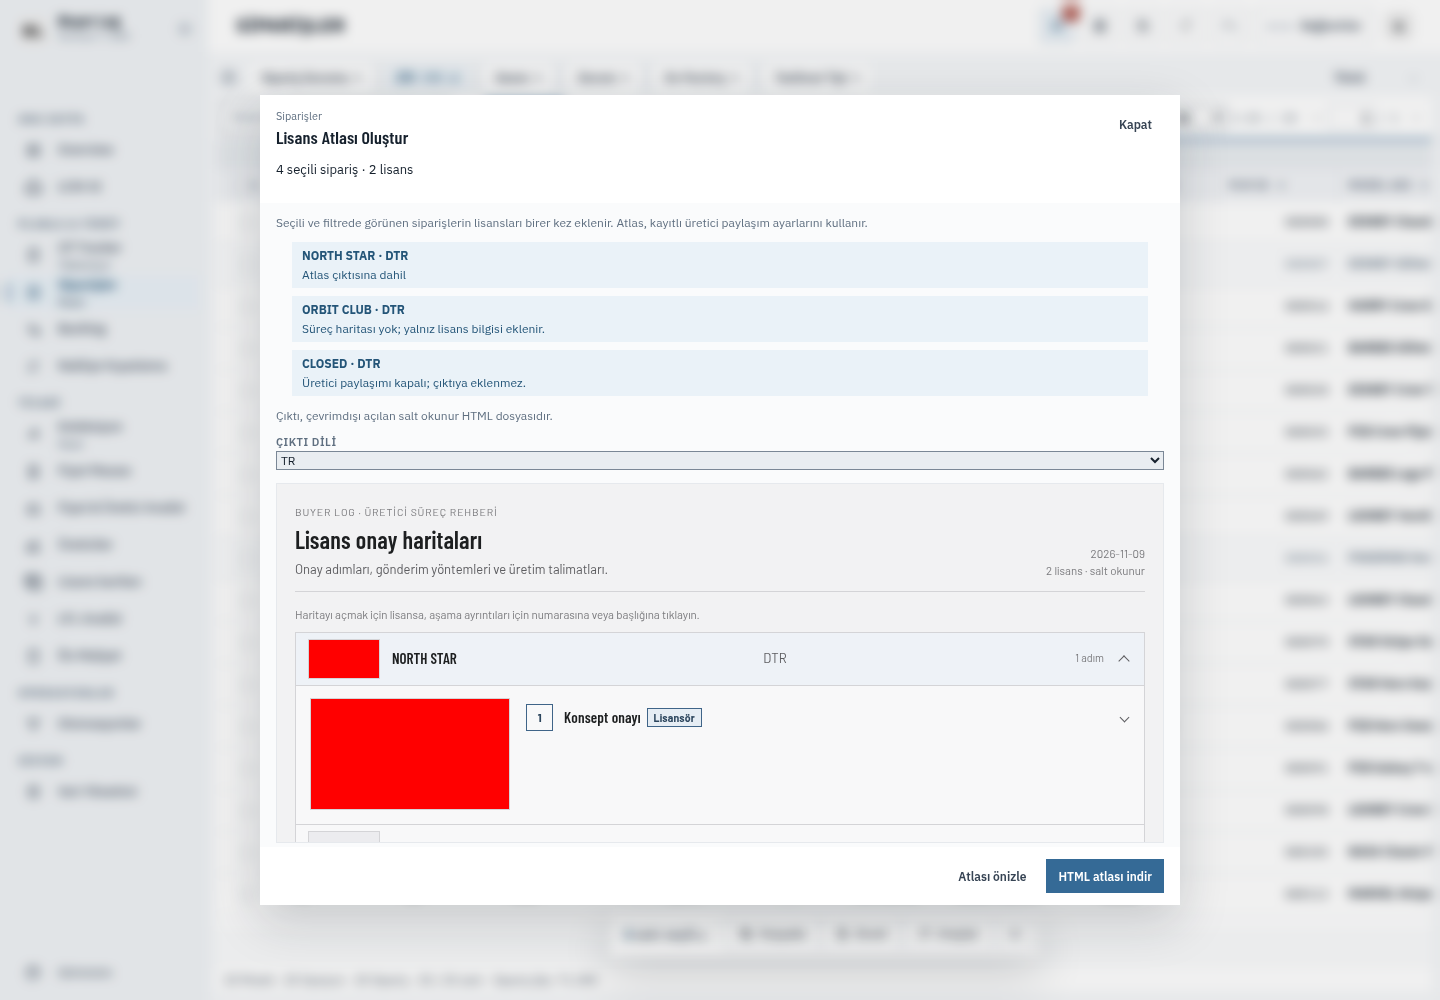
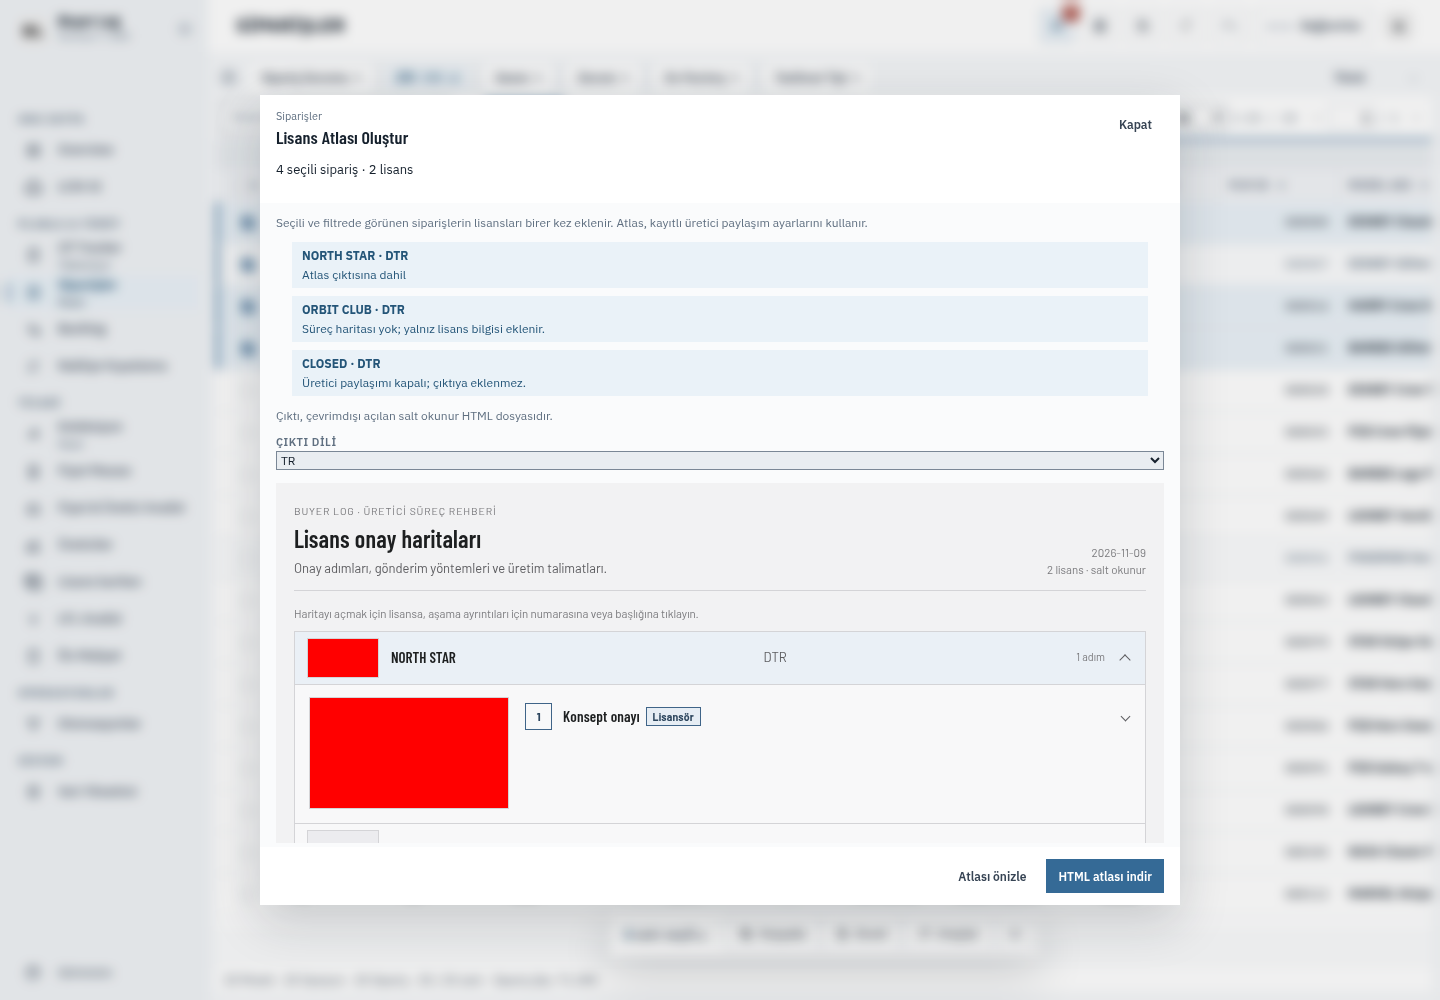
fix: use shared appearance owner for atlas preview

diff --git a/resources/app/public/license-cards.css b/resources/app/public/license-cards.css
@@ -222,7 +222,7 @@ body[data-active-tab="licensecards"] main{height:calc(100dvh - var(--ui-topbar-h
 .orderLicenseAtlas .orderAtlasList{display:grid;gap:var(--ui-space-2)}
 .orderLicenseAtlas .lcNotice{margin:0;display:flex;flex-direction:column;align-items:flex-start;gap:var(--ui-space-1)}
 .orderLicenseAtlas .lcDetailFoot{gap:var(--ui-space-2);justify-content:flex-end}
-.orderAtlasPreview{width:100%;height:360px;border:1px solid var(--ui-row-divider);background:var(--ui-surface);box-sizing:border-box}
+.orderAtlasPreview{width:100%;height:360px;box-sizing:border-box}
 .lcEditor[open]{display:flex;flex-direction:column}
 .lcEditorHead{display:flex;justify-content:space-between;align-items:flex-start;gap:var(--ui-space-3);padding:var(--ui-space-3) var(--ui-space-4);flex:none}
 .lcEditorHead h2{margin:2px 0}

diff --git a/resources/app/public/ui-components.css b/resources/app/public/ui-components.css
@@ -15816,3 +15816,4 @@ html[data-ui-system="manifest"] .lcQuick,html[data-ui-system="manifest"] .lcCrea
 html[data-ui-system="manifest"] .lcQuick small{font-size:var(--ui-font-xs) !important;color:var(--ui-text-muted) !important}
 html[data-ui-system="manifest"] .lcContractFilters{z-index:var(--ui-z-data);background:var(--ui-surface) !important}
 html[data-ui-system="manifest"] .lcContractIdentity>span{color:var(--ui-text-muted) !important}
+.orderAtlasPreview{border:none;background:var(--ui-surface)}
